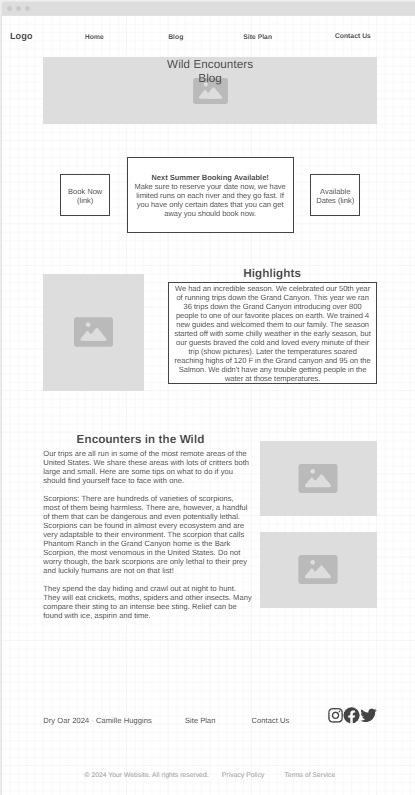
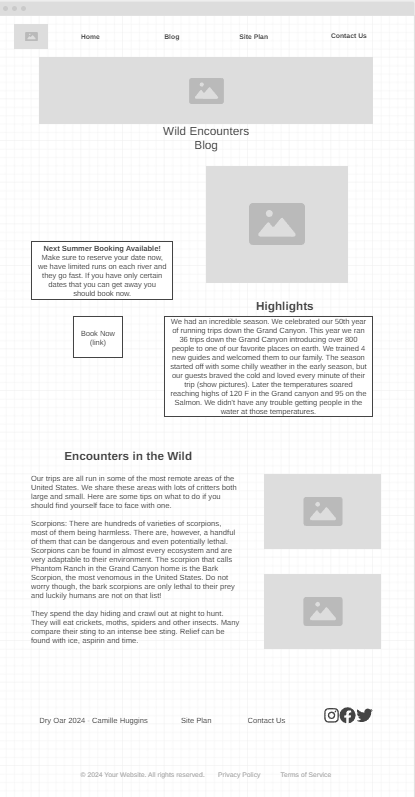
Blog Wireframe

diff --git a/wwr/rivers.html b/wwr/rivers.html
@@ -1,0 +1,96 @@
+<!DOCTYPE html>
+<html lang="en">
+<head>
+    <meta charset="UTF-8">
+    <meta http-equiv="X-UA-Compatible" content="IE=edge">
+    <meta name="viewport" content="width=device-width, initial-scale=1.0">
+    <title>Whitewater Rafting Vacations | Dry Oar Boating | Home</title>
+    <link rel="stylesheet" href="styles/style.css">
+</head>
+<body>
+    <div id="content">
+        <header>
+            <a id="logo_link" href="index.html">
+                <img class="logo" src="images/logo.png" alt="Dry Oar Logo">
+            </a>
+            <nav>
+                <a href="index.html">Home</a>
+                <a href="rivers.html">Blog</a>
+                <a href="site-plan-rafting.html">Site Plan</a>
+                <a href="contactus.html">Contact Us</a>
+            </nav>
+        </header>
+        <div id="banner">
+            <div id="banner-box">
+                <img id="banner-img" src="images/banner.jpg" alt="Nature Image">
+            </div>
+            <section id="banner-msg">
+                <h1 class="blog-title">Wild Encounters Blog</h1>
+            </section>
+        <main class="blog-grid">
+            <section class="summer-msg">
+                <h2>Next Summer Booking Available</h2>
+                <p>Make sure to reserve your date now, we will have limited runs on each river
+                    and they go fast. If you have only certain dates that you can get away
+                    you should book now!
+                </p>
+            <div class="book-box">
+                <a class="book" href="rates.html">Book Now</a>
+            </div>
+            </section>
+            <section class="higlights-card">
+                <img class="highlights-img" src="images/highlights.jpg" alt="river in forest">
+                <h2>Highlights</h2>
+                <p>We had an incredible season. We celebrate our 50th year of running trips down
+                    the Grand Canyon. This year we ran 36 trips down the Grand Canyon introducing over 800
+                    people to one of our favorite places on earth. We trained 4 new guides and welcomed
+                    them to our family. The season started off with some chilly weather in the early
+                    season, but our guests braved the cold and loved every minute of their trip. Later the
+                    temperatures soared reaching highs of 120 F in the Grand Canyon and 95 on the Salmon. 
+                    We didn't have any trouble getting people in the water at those temperatures. 
+                </p>
+            </section>
+            <section class="wilderness-card">
+                <div class="wilderness-content">
+                    <h2>Wilderness Encounters</h2>
+                    <p>Our trips are all run in some of the most remote areas of the United States. We share
+                        these areas with lots of critters both large and small. Here are some tips on what
+                        to do if you should find yourself face to face with one. 
+                    </p>
+                    <p>Scorpions: There are hundreds of varieties of scorpions, most of them being harmless. 
+                        There are, however, a handful of them that can be dangerous and even potentially lethal.
+                        Scorpions can be found in almost every ecosystem and are very adaptable to their environment.
+                        The scorpion that calls Phantom Ranch in the Grand Canyon home is the Bark Scorpion, the most
+                        venomous in the United States. Do not worry though, the bark scorpions are only lethal to their
+                        prey and luckily humans are not on that list!
+                    </p>
+                    <p>They spend the day hiding and crawl out at night to hunt. They will eat crickets, moths, spiders
+                        and other insects. Many compare their sting to an intense bee sting. Relief can be found with ice, 
+                        aspirin and times.
+                    </p>  
+                </div>
+                <div class="image-card">
+                    <img class="goat-img" src="images/goat-encounter.jpg" alt="goat picture">
+                    <img class="snake-img" src="images/snake-encounter.jpg" alt="snake picture">
+                </div>
+            </section>
+        </main>
+        <footer>
+            <p>Dry Oar &copy; 2024 - Camille Huggins</p>
+            <p><a href="site-plan-rafting.html">Site Plan</a></p>
+            <p><a href="contactus.html">Contact Us</a></p>
+            <div class="social">
+                <a href="https://facebook.com" target="_blank">
+                    <img src="images/facebook.png" alt="fb icon">
+                </a>
+                <a href="https://twitter.com" target="_blank">
+                    <img src="images/twitter.png" alt="twitter icon">
+                </a>
+                <a href="https://instagram.com" target="_blank">
+                    <img src="images/instagram.png" alt="instagram icon">
+                </a>
+            </div>
+        </footer>
+    </div>
+</body>
+</html>

diff --git a/wwr/styles/style.css b/wwr/styles/style.css
@@ -4,22 +4,19 @@
 --heading-font: "Lexend", "Lucida Grande", "Trebuchet MS";
 --paragraph-font: "Exo 2", "Courier New", "Papyrus";
 }
-.home-title {
+.home-title, .blog-title {
     font-family: var(--heading-font);
     color:white;
     font-size: 2em;
     margin-top: 10px;
-}
-#content {
-    max-width: 1600px;
-    margin: 0 auto;
 }
 nav a {
     font-family: var(--heading-font);
     text-align: center;
     color: #FFEAB8;
     text-decoration: none;
-    padding: 35px; 
+    padding: 35px;
+    flex: 1;
 }
 nav {
     display: flex;
@@ -75,11 +72,19 @@ body {
     font-size: 22px;
     margin: 0;
     padding: 0;
+    display: flex;
+    align-items: center;
+    flex-direction: column;
 }
 header {
     background-color:#020E54;
     display: grid;
     grid-template-columns: 150px auto;
+}
+#content {
+    max-width: 1600px;
+    margin: 0 auto;
+    flex: 1;
 }
 #background {
     background-color: #FFEAB8;
@@ -94,7 +99,7 @@ h4 {
     font-family: var(--heading-font);
     color: #020E54;
 }
-.book, .join {
+.join, .book {
     font-family: var(--heading-font);
     background-color: white;
     color: #020E54;
@@ -181,6 +186,86 @@ h4 {
     box-shadow: 5px 5px #020E54;
     margin-top: 100px;
 }
+.blog-grid {
+    display:grid;
+    grid-template-columns: 1fr 1fr;
+    gap: 20px;
+    padding: 20px;
+}
+.summer-msg, .highlights-card, .wilderness-card {
+    background-color: #FFEAB8;
+    padding: 20px;
+    box-shadow: 0 5px 10px rgba(0, 0, 0, 0.1)
+}
+.summer-msg {
+    display: flex;
+    flex-direction: column;
+    justify-content: center;
+    align-items: center;
+    background-color: #ffeab8;
+    padding: 20px;
+    text-align: center;
+}
+#banner-msg {
+    text-align: center;
+    margin-top: -100px;
+    color: white;
+    margin-bottom: 50px;
+}
+#banner-img {
+    width: 100%;
+}
+#summer-msg h2, #summer-msg p {
+    border: solid #020E54;
+}
+* {
+    margin: 0;
+    padding: 0;
+    box-sizing: border-box;
+}
+.wilderness-card {
+    display: grid;
+    align-items: center; 
+    justify-content: space-between; 
+    margin-bottom: 20px;
+    grid-template-columns: 1fr 1fr;
+    grid-column: 1 / -1;
+}
+
+.wilderness-content {
+    flex: 1; 
+    padding-right: 20px;
+    padding: 10px; 
+}
+
+.wilderness-content h2 {
+    font-size: 2rem;
+    margin-bottom: 10px;
+    margin-bottom: 10px;
+}
+
+.wilderness-content p {
+    font-size: 1.5rem;
+    line-height: 1.6;
+    margin-bottom: 10px;
+    color: #333;
+}
+
+.image-column {
+    display: flex;
+    flex-direction: column;
+    align-items: center; 
+    gap: 15px; 
+}
+
+.image-column img {
+    width: 250px; 
+    height: auto;
+    border-radius: 8px; 
+}
+.book-box {
+    margin-top: 50px;
+}
 footer {
     font-family: var(--paragraph-font);
     background-color:#020E54;
@@ -191,6 +276,8 @@ footer {
     display: flex;
     justify-content: space-around;
     align-items: center;
+    width: 100%;
+    position: relative;
 }
 footer a {
     font-family: var(--paragraph-font);
@@ -206,7 +293,7 @@ footer .social img {
     padding-top: 15px;
 }
 @media screen and (max-width: 900px) {
-    #hero, .home-grid {
+    #hero, .home-grid, .blog-grid{
         display: block;
         height: auto;
     }
@@ -244,7 +331,41 @@ footer .social img {
         display: block;
         margin: 0 auto;
     }
+    #banner, .home-grid {
+        display: block;
+        height: auto;
+    }
+    #banner {
+        margin-top: 0;
+    }
+    #banner-msg {
+        margin-top: 0;
+    }
+    #banner-msg h1 {
+        color: #6f7364;
+    }
+
     footer {
         margin-top: 25px;
+    }
+}@media (max-width: 768px) {
+    .wilderness-card {
+        flex-direction: column; 
+        align-items: center;
+        text-align: center;
+    }
+
+    .wilderness-content {
+        padding-right: 0;
+        margin-bottom: 20px; 
+    }
+
+    .image-column {
+        gap: 20px; 
+    }
+
+    .image-column img {
+        width: 100%;
+        max-width: 400px; 
     }
 }

diff --git a/wwr/index.html b/wwr/index.html
@@ -15,7 +15,7 @@
             </a>
             <nav>
                 <a href="index.html">Home</a>
-                <a href="#">Page 2</a>
+                <a href="rivers.html">Blog</a>
                 <a href="site-plan-rafting.html">Site Plan</a>
                 <a href="contactus.html">Contact Us</a>
             </nav>
